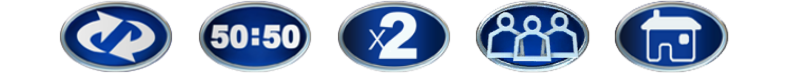
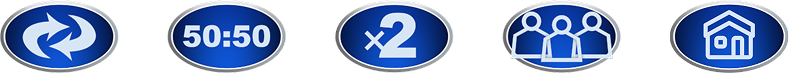
fix: update lifeline and money tree images

diff --git a/core/widgets.py b/core/widgets.py
@@ -38,15 +38,15 @@ class GameRules(QWidget, Ui_Rules):
         if 441 <= x <= 611 and 46 <= y <= 313:
             state = 'safety_net'
         elif 600 <= y <= 656:
-            if 56 <= x <= 142:
+            if 12 <= x <= 100:
                 state = 'ping1'
-            elif 162 <= x <= 248:
+            elif 140 <= x <= 228:
                 state = 'ping2'
             elif 268 <= x <= 354:
                 state = 'ping3'
-            elif 374 <= x <= 460:
+            elif 395 <= x <= 483:
                 state = 'ping4'
-            elif 480 <= x <= 566:
+            elif 523 <= x <= 612:
                 state = 'ping5'
         else:
             state = self.state = ''
